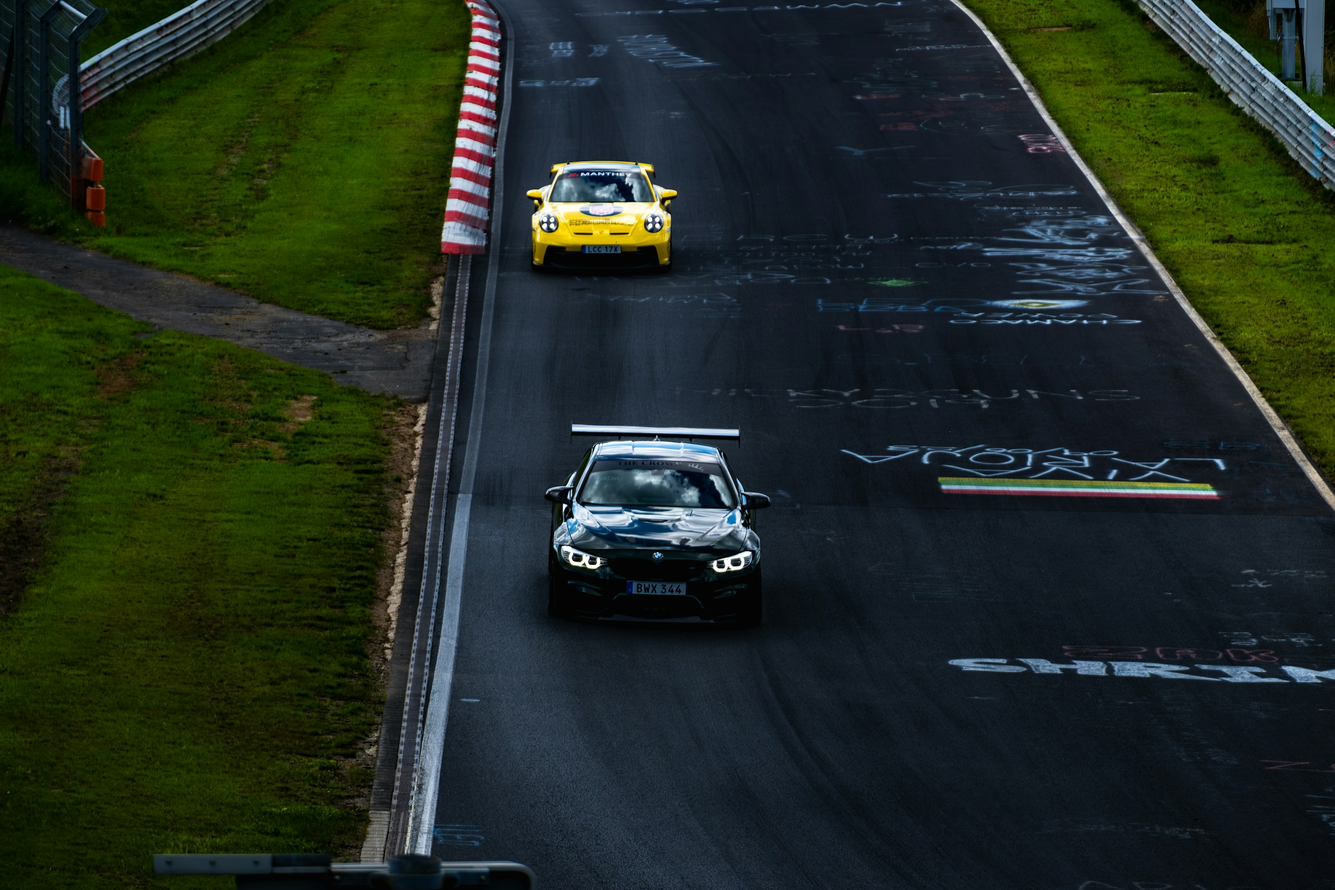
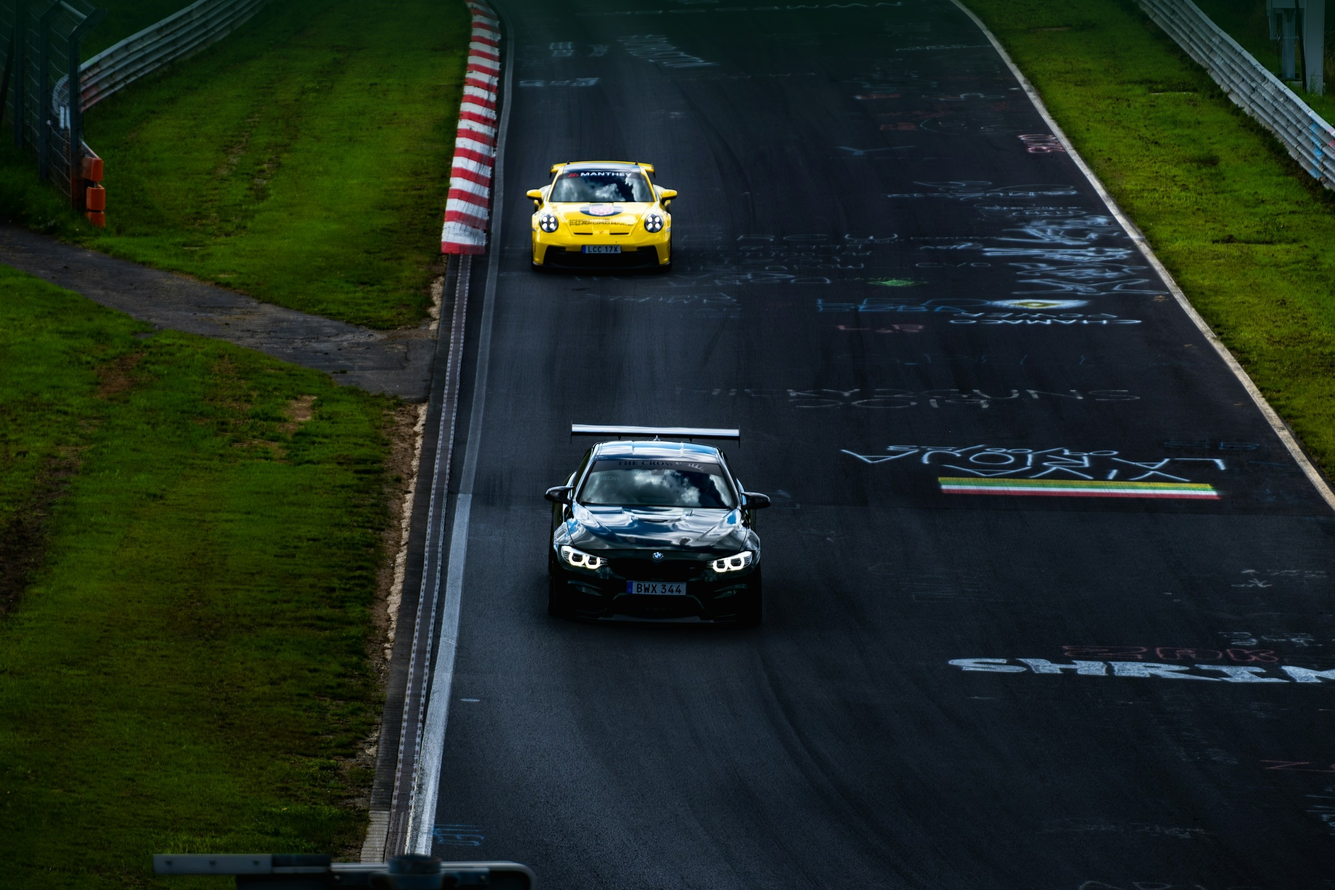
feat(omarchy): barre sans fond, l'assombrissement passe dans le fond d'écran
`background-alpha` passe de 0.30 à 0. La barre ne peint plus rien : ce qui rend
son texte lisible est cuit dans l'image du thème. Peindre en plus un fond
par-dessus assombrissait deux fois.

Le flou sur la couche `omarchy-bar` part pour la même raison — sans fond, il ne
floutait plus que le fond d'écran, en bande, avec une couture nette dessous.

Ce gabarit vaut pour TOUS les thèmes, donc chaque fond d'écran doit porter cet
assombrissement du haut. Celui de nurburgreen ne l'avait pas : mesuré, sa bande
supérieure montait à une luminance de 0,87 par endroits, où le cognac tombait à
1,67:1. Après traitement, 3,15:1 au pire pixel. La recette est dans
`theme/nurburgreen/assets/README.md`, à côté de celle de kreide.

looknfeel reprend aussi au bouton « Toggle window gaps » ce qu'on voulait
vraiment de lui : pas de gouttières, pas de bordure — mais l'arrondi survit. Ce
bouton posait `rounding = 0`, et comme `Style.cornerRadius` du shell est lu en
direct depuis `decoration:rounding`, un seul nombre décarrait la barre, les
menus, les panneaux et le verrouillage en même temps.

Claude-Session: https://claude.ai/code/session_013GnA2Ce75Ze87pvfhB9p6B

diff --git a/theme/nurburgreen/assets/README.md b/theme/nurburgreen/assets/README.md
@@ -1,0 +1,59 @@
+# Le fond d'écran est assombri en haut, et pourquoi
+
+`backgrounds/00-nurburgring-two-cars.jpg` porte un dégradé vertical cuit dans
+l'image, sur la bande du haut uniquement :
+
+```
+0.72 à 0 %   0.60 à 3,5 %   0.22 à 10 %   0 à 20 %
+```
+
+en `#001a0f`, le `background` du thème.
+
+## Pourquoi il le faut
+
+La barre ne peint plus aucun fond — `background-alpha = 0` dans
+`omarchy/.config/omarchy/themed/shell.bar.toml.tpl`, et ce gabarit vaut pour
+**tous** les thèmes. Sans traitement, le texte de la barre se pose directement
+sur la photo : mesuré sur l'originale, la bande du haut montait à une luminance
+linéaire de 0,87 par endroits, où le cognac `#d4b88a` tombait à **1,67:1**.
+Après, le maximum est 0,12 et le pire pixel donne **3,15:1**.
+
+C'est la même opération que pour kreide, dont le
+[README des assets](../../kreide/assets/README.md) porte la recette complète —
+seul le second dégradé (l'assombrissement du haut) s'applique ici ; le premier,
+à 100°, était fait pour la maquette du lanceur.
+
+**Toute nouvelle image de fond, dans n'importe quel thème, doit passer par là**,
+sinon la barre redevient illisible sur les zones claires.
+
+## Refaire l'opération
+
+Depuis `theme/nurburgreen/`, avec l'image d'origine en `/tmp/base.jpg` :
+
+```bash
+python3 - <<'PY'
+def ramp(path, L, stops):
+    vals = []
+    for i in range(L):
+        t = i / (L - 1)
+        for j in range(len(stops) - 1):
+            t0, a0 = stops[j]; t1, a1 = stops[j + 1]
+            if t0 <= t <= t1:
+                k = 0 if t1 == t0 else (t - t0) / (t1 - t0)
+                vals.append(round(255 * (a0 + k * (a1 - a0))))
+                break
+    open(path, "w").write("P2\n%d 1\n255\n%s\n" % (L, " ".join(map(str, vals))))
+
+ramp("/tmp/r.pgm", 1707, [(0.00,0.72),(0.035,0.60),(0.10,0.22),(0.20,0.00),(1.00,0.00)])
+PY
+
+W=2560; H=1707
+magick /tmp/r.pgm -rotate 90 -resize ${W}x${H}! /tmp/m.png
+magick -size ${W}x${H} xc:'#001a0f' /tmp/m.png \
+       -alpha off -compose CopyOpacity -composite /tmp/s.png
+magick /tmp/base.jpg /tmp/s.png -compose over -composite \
+       -quality 92 backgrounds/00-nurburgring-two-cars.jpg
+```
+
+`H` est la hauteur de l'image, pas celle de l'écran : la rampe est en
+proportion.
